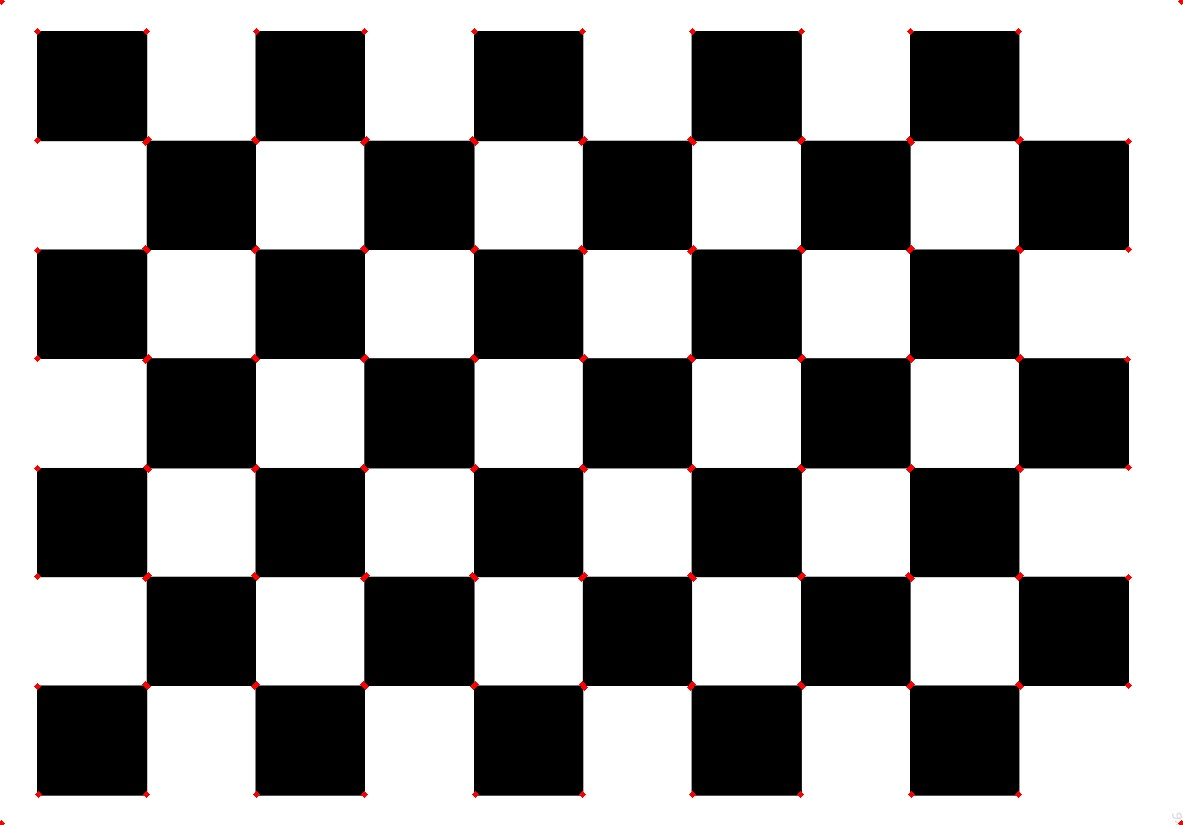
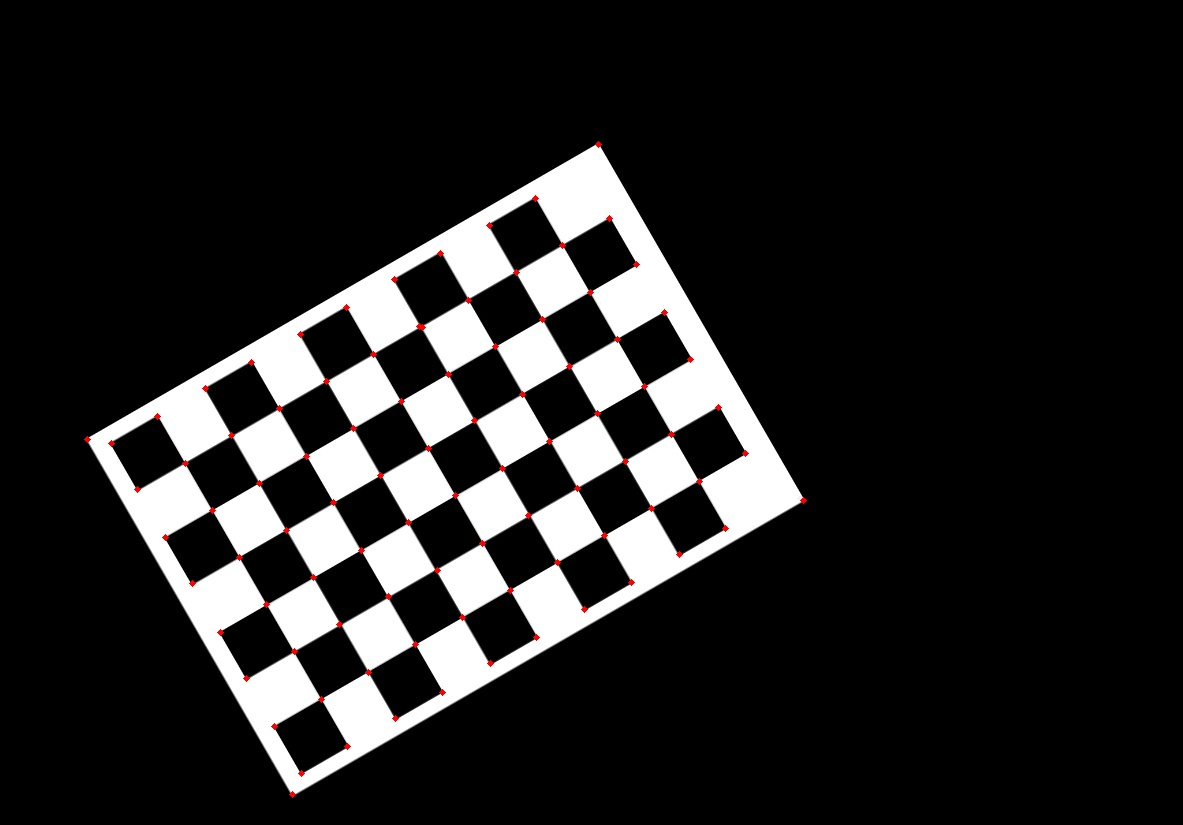
Harris corner PartB

diff --git a/Homework1/Hw1_1_partB.py b/Homework1/Hw1_1_partB.py
@@ -1,0 +1,216 @@
+from email.mime import image
+import math
+from unicodedata import name
+import numpy as np
+import cv2
+from scipy import signal
+import skimage.color  
+import skimage.io 
+from matplotlib import pyplot as plt
+from PIL import Image 
+
+np.seterr(divide='ignore',invalid='ignore')
+
+# Gaussian Smooth
+def gaussian_smooth(image, kernel, sigma, name):
+
+    img = cv2.imread(image)
+    b, g, r = cv2.split(img)    
+    
+    gaussian_filter = np.zeros([kernel, kernel])
+    for i in range(kernel):
+        for j in range(kernel):
+            u = i - kernel / 2
+            v =  j - kernel / 2
+            gaussian_filter[i, j] = math.exp(-(u*u+v*v)/(2*sigma*sigma)) / (2*math.pi*sigma*sigma)
+    gaussian_filter = gaussian_filter / gaussian_filter.sum()    
+    
+    B = signal.convolve2d(b, gaussian_filter, boundary='symm', mode='same')
+    G = signal.convolve2d(g, gaussian_filter, boundary='symm', mode='same')
+    R = signal.convolve2d(r, gaussian_filter, boundary='symm', mode='same')
+    GS_image = cv2.merge([B, G, R])
+    cv2.imwrite('GS_'+str(name)+'_k'+str(kernel)+'.jpg', GS_image)
+
+# Sobel edge detection
+def sobel_edge_detection(image, threshold, name):
+    
+    kernel_x = np.array([[-1,0,1], [-2,0,2], [-1,0,1]]) 
+    kernel_y = np.array([[1,2,1], [0,0,0], [-1,-2,-1]])
+    
+    image = cv2.imread(image) 
+    gray = cv2.cvtColor(image, cv2.COLOR_BGR2GRAY)
+    gx = signal.convolve2d(gray, kernel_x, boundary='symm', mode='same')
+    gy = signal.convolve2d(gray, kernel_y, boundary='symm', mode='same') 
+    
+    ## Calculate Magnitude
+    magnitude =  np.abs(gx) + np.abs(gy)
+    magnitude[magnitude < threshold] = 0
+    cv2.imwrite('M'+ '_' + str(name) + '_t'  + str(threshold) + '.jpg', magnitude)
+ 
+    ## Calculate Direction
+    height = np.shape(image)[0]
+    weight = np.shape(image)[1]
+    hsv = np.zeros((height,weight,3))
+    hsv[..., 0 ] = (np.arctan2(gy,gx)+np.pi)/(2*np.pi)
+    hsv[..., 1 ] = np.ones((height, weight))
+    hsv[..., 2 ] = magnitude / magnitude.max()- magnitude.min()
+
+    HSV = skimage.color.hsv2rgb(hsv) 
+    skimage.io.imsave('D'+ '_' + str(name) + '.jpg', HSV)  
+
+def structure_tensor(image, window_size, name):
+    kernel_x = np.array([[-1,0,1], [-2,0,2], [-1,0,1]]) 
+    kernel_y = np.array([[1,2,1], [0,0,0], [-1,-2,-1]]) 
+
+    image = cv2.imread(image) 
+    gray = cv2.cvtColor(image, cv2.COLOR_BGR2GRAY)
+    gx = signal.convolve2d(gray, kernel_x / 8, mode='same')
+    gy = signal.convolve2d(gray, kernel_y / 8, mode='same')
+
+    sigma = 5
+    gaussian_filter = np.zeros([window_size, window_size])
+    for i in range(window_size):
+        for j in range(window_size):
+            u = i - window_size / 2
+            v =  j - window_size / 2
+            gaussian_filter[i, j] = math.exp(-(u*u+v*v)/(2*sigma*sigma)) / (2*math.pi*sigma*sigma)
+    gaussian_filter = gaussian_filter / gaussian_filter.sum()
+    
+    Ixx = gx * gx
+    Ixy = gx * gy
+    Iyy = gy * gy
+    Ixx = signal.convolve2d(Ixx, gaussian_filter, mode='same')
+    Ixy = signal.convolve2d(Ixy, gaussian_filter, mode='same')
+    Iyy = signal.convolve2d(Iyy, gaussian_filter, mode='same')
+
+    R = (Ixx * Iyy - Ixy * Ixy) / (Ixx + Iyy)
+
+    lambda_1 = (Ixx+Iyy)/2-np.sqrt(np.square(Ixx-Iyy)+4*np.square(Ixy))/2
+    lambda_2 = (Ixx+Iyy)/2+np.sqrt(np.square(Ixx-Iyy)+4*np.square(Ixy))/2
+    
+     
+    plt.figure(figsize=(13, 5))
+    plt.subplot(121)
+    plt.title(r'$\lambda_1$'+name+'_window:'+str(window_size))
+    plt.imshow(lambda_1, cmap='gnuplot')
+
+    plt.subplot(122)
+    plt.title(r'$\lambda_2$'+'_window:'+str(window_size))
+    plt.imshow(lambda_2, cmap='gnuplot')
+
+    plt.tight_layout()
+    plt.show()
+    return R
+
+# Non-maximal Suppression
+def nms(image, window_size, threshold, R, name):
+    image = cv2.imread(image) 
+    gray = cv2.cvtColor(image, cv2.COLOR_BGR2GRAY)
+
+    if window_size % 2==1:
+        radius = int((window_size - 1) / 2)
+    else:
+        radius = int(window_size / 2)
+
+    skip = np.zeros(np.shape(gray))
+    for i in range(gray.shape[0]):
+        for j in range(gray.shape[1]):
+            if R[i, j] < threshold:
+                skip[i, j] = True
+            else:
+                skip[i, j] = False
+    
+    gray_shape = np.shape(gray)
+    for i in range(radius, gray_shape[0] - radius):
+        j = radius - 1
+        
+        while ((j < (gray_shape[1] - radius)) and (skip[i, j] or (R[i, j - 1] > R[i, j]))):
+            j = j + 1
+        
+        while (j < (gray_shape[1] - radius)):
+            while ((j < (gray_shape[1] - radius)) and (skip[i, j] or (R[i, j + 1] > R[i, j]))):
+                j = j + 1
+            if (j < (gray_shape[1] - radius)):
+                p1 = j + 2
+                while (p1 <= (j + radius) and (R[i, p1] < R[i, j])):
+                    skip[i, p1] = True
+                    p1 = p1 + 1
+                if p1 > (j + radius):
+                    p2 = j - 1
+                    while ((p2 >= (j - radius)) and (R[i, p2] <= R[i, j])):
+                        p2 = p2 - 1
+                    if p2 < j - radius:
+                        k = i + radius
+                        found = False
+                        while not found and k > i:
+                            l = j + radius
+                            while not found and (l >= (j - radius)):
+                                if R[k, l] > R[i, j]:
+                                    found = True
+                                else:
+                                    skip[k, l] = True
+                                l = l - 1
+                            k = k - 1
+                        k = i - radius
+                        while not found and k < i:
+                            l = j - radius
+                            while not found and (l <= (j + radius)):
+                                if R[k, l] >= R[i, j]:
+                                    found = True
+                                l = l + 1
+                            k = k + 1
+                        if not found: 
+                            cv2.circle(image, (j, i), 1, (0, 0, 255), 3)
+                j = p1
+
+    cv2.imwrite('NMS_' + name + '_' +str(window_size) + '+t' + str(threshold) + '.jpg', image)
+
+# Rotate and Scale
+def rotate_and_scale(image, times, angle, name):
+
+    img = cv2.imread(image)
+    center = (np.shape(img)[0] / 2, np.shape(img)[1] / 2)
+
+    scale = cv2.getRotationMatrix2D(center, 0, times)
+    img_scale = cv2.warpAffine(img, scale, (np.shape(img)[1], np.shape(img)[0])) 
+
+    rotate = cv2.getRotationMatrix2D(center, angle, 1)
+    img_rotate_scale = cv2.warpAffine(img_scale, rotate, (np.shape(img)[1], np.shape(img)[0]))
+
+    cv2.imwrite('img_r30+s0.5_'+name+'.jpg', img_rotate_scale)
+    
+    image_rs = 'img_r30+s0.5_'+name+'.jpg'
+    return image_rs
+
+if __name__ == '__main__': 
+    
+    image1 = "1a_notredame.jpg"
+    image2 = "chessboard-hw1.jpg"
+    image_rs1 = rotate_and_scale(image1, 0.5, 30, name='A')
+    image_rs2 = rotate_and_scale(image2, 0.5, 30, name='B')
+
+
+
+    R1 = structure_tensor(image_rs1, window_size=3, name='A')
+    R2 = structure_tensor(image_rs2, window_size=3, name='B')
+
+    nms(image_rs1, window_size=5, threshold=100, R=R1, name='A')
+    nms(image_rs2, window_size=3, threshold=100, R=R2, name='B')
+
+    # gaussian_smooth(image1, kernel=5, sigma=5, name='A')
+    # gaussian_smooth(image1, kernel=10, sigma=5, name='A')
+    # gaussian_smooth(image2, kernel=5, sigma=5, name='B')
+    # gaussian_smooth(image2, kernel=10, sigma=5, name='B')
+    
+    # sobel_edge_detection(image1, threshold=30, name='A')
+    # sobel_edge_detection(image2, threshold=30, name='B')
+
+    # R1 = structure_tensor(image1, window_size=3, name='A')
+    # R2 = structure_tensor(image1, window_size=5, name='A')
+    # R3 = structure_tensor(image2, window_size=3, name='B')
+    # R4 = structure_tensor(image2, window_size=5, name='B')
+
+    # nms(image1, window_size=3, threshold=100, R=R1, name='A')
+    # nms(image1, window_size=5, threshold=100, R=R2, name='A')
+    # nms(image2, window_size=3, threshold=100, R=R3, name='B')
+    # nms(image2, window_size=5, threshold=100, R=R4, name='B')

diff --git a/Homework1/Hw1_1_partA.py b/Homework1/Hw1_1_partA.py
@@ -101,7 +101,7 @@ def structure_tensor(image, window_size, name):
     plt.show()
     return R
 
-# 5. Non-maximun supression follow the alg 
+# Non-maximal Suppression
 def nms(image, window_size, threshold, R, name):
     image = cv2.imread(image) 
     gray = cv2.cvtColor(image, cv2.COLOR_BGR2GRAY)
